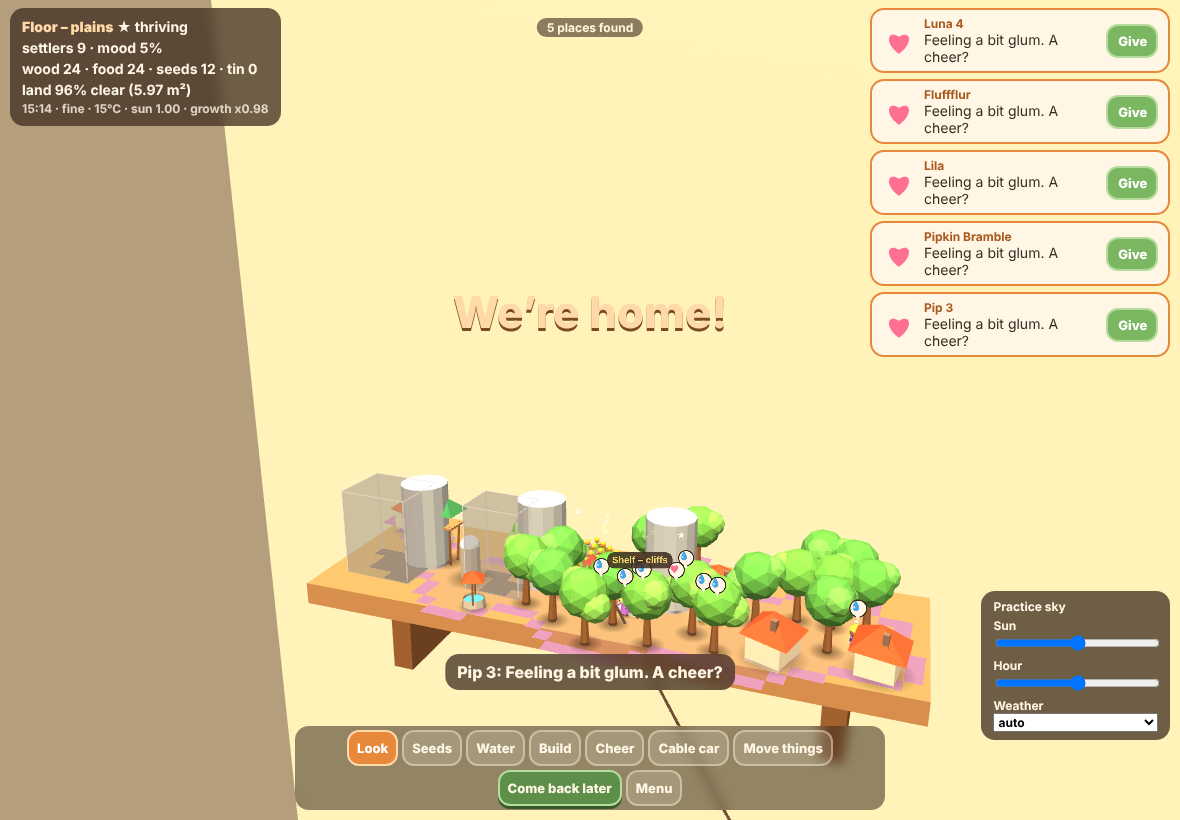
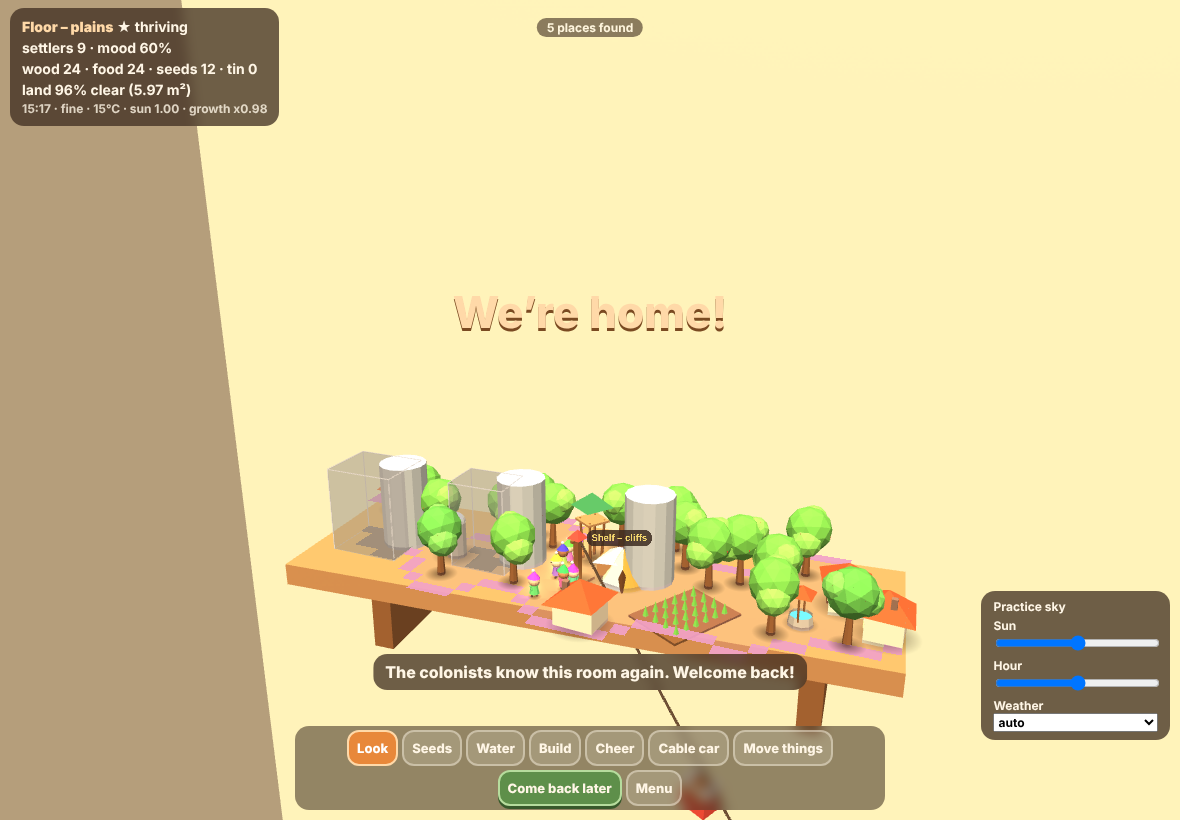
Base Camp build 5: coming home feels good (colony content after time away, no wall of glum requests); at most two requests on screen
Claude-Session: https://claude.ai/code/session_0171oc5wTsPoimaja7RRfUcs

diff --git a/games/base-camp/index.html b/games/base-camp/index.html
@@ -123,7 +123,7 @@ body.auto #bar button{min-height:36px;font-size:13px;padding:2px 8px}
 'use strict';
 // Base Camp: a living colony on the real surfaces of your room. One file. Sections: basics, almanac (data), environment
 // (light, clock, weather), scan (zones), models, colony simulation, input and UI, AR mode, practice room, main loop.
-const BUILD = 'build 4';
+const BUILD = 'build 5';
 const $ = (id) => document.getElementById(id);
 const clamp = (v, a, b) => Math.max(a, Math.min(b, v)), mixLerp = (a, b, t) => a + (b - a) * t;
 const rnd = (a, b) => a + Math.random() * (b - a), pick = (a) => a[Math.floor(Math.random() * a.length)];
@@ -1630,6 +1630,9 @@ function awaySim(secs, startHour) {
   }
   for (const S of G.settlements) { for (const c of S.cols) { c.job = null; c.inside = false; c.cool = 0; c.moving = false; c.working = false; c.mesh.visible = true; } for (const t of S.things) t.workers = 0; S.reqT = 0; S.planT = 4; }
   DIARY.on = false;
+  // Coming home must feel good, never like guilt: after time away the colony is content, not miserable (owner's rule).
+  for (const S of G.settlements) for (const c of S.cols) { c.needs.joy = Math.max(c.needs.joy, 0.6); c.needs.food = Math.max(c.needs.food, 0.45); c.needs.water = Math.max(c.needs.water, 0.45); c.needs.rest = Math.max(c.needs.rest, 0.5); }
+  G.requests = G.requests.filter((q) => q.def.give !== 'cheer');
   const lines = awaySummary(before, snapColony(), secs, nights, capped);
   return { secs, ms: performance.now() - t0, steps, lines, nights };
 }
@@ -2915,11 +2918,13 @@ $('bMapIO').onclick = () => { $('title').hidden = true; ioUi(); $('modal').query
 $('bNew').onclick = () => { if ($('bNew').dataset.sure !== '1') { $('bNew').dataset.sure = '1'; $('bNew').textContent = 'Really forget the colony?'; return; } $('bNew').dataset.sure = ''; $('bNew').textContent = 'Forget my colony'; store.del(SAVE_KEY); store.del(SAVE_KEY + '-bak'); G.previewLines = null; G.previewStamp = ''; updateTitle(); toast('The colony is forgotten. The room map is kept.'); };
 function reqUi() {
   const r = $('reqs'); r.innerHTML = '';
-  for (const q of G.requests) {
+  const MAXR = 2; // at most two requests on screen: the room is the game, not a to-do list
+  for (const q of G.requests.slice(0, MAXR)) {
     const d = document.createElement('div'); d.className = 'req'; d.innerHTML = `<canvas width="34" height="34"></canvas><div><b>${esc(q.who)}</b>${esc(q.def.text)}${q.def.by ? ' <i class="by">by ' + esc(q.def.by) + '</i>' : ''}</div><button>${q.def.give === 'cablecar' || q.def.give === 'expedition' ? 'Yes!' : 'Give'}</button>`;
     const ctx = d.querySelector('canvas').getContext('2d'); ctx.scale(34 / 64, 34 / 64); (ICONS[q.def.icon] || ICONS.bang)(ctx);
     d.querySelector('button').onclick = () => giveRequest(q); r.appendChild(d);
   }
+  if (G.requests.length > MAXR) { const m = document.createElement('div'); m.className = 'req more'; m.textContent = '+' + (G.requests.length - MAXR) + ' more'; m.style.cssText = 'font-size:12px;opacity:.75;justify-content:flex-end;padding:2px 8px'; r.appendChild(m); }
 }
 function envUi() {
   const e = $('env');
@@ -3130,7 +3135,7 @@ function frame(time, xrFrame) {
     for (const z of SCAN.zones.concat(G.zones)) if (z.label) { if (z.t0 === undefined) z.t0 = G.time; const inScan = SCAN.zones.includes(z), mapped = inScan && z.mz > 0 && zoneById(z.mz), dx = z.cx - eye.x, dy = z.y - eye.y, dz = z.cz - eye.z, L2 = Math.hypot(dx, dy, dz) || 1, look = (dx * fw.x + dy * fw.y + dz * fw.z) / L2 > 0.985;
       z.label.visible = !mapped && !z.settled && G.phase !== 'title' && (G.time - z.t0 < 3.5 || look); if (z.label.visible) { z.label.position.y = z.y + 0.05; const k = clamp(L2 / 1.2, 0.5, 2.5); z.label.scale.set(0.16 * k, 0.03 * k, 1); } } }
   else for (const z of SCAN.zones.concat(G.zones)) if (z.label && z.label.visible) { z.label.position.y = z.y + 0.07 + Math.sin(G.time * 2 + z.id) * 0.004; const dd = (AR.on ? tmpV.setFromMatrixPosition(AR.viewM) : camera.position).distanceTo(z.label.position), k = clamp(dd / 1.0, 0.7, 4); z.label.scale.set(0.28 * k, 0.052 * k, 1); }
-  uiT += dt; if (uiT > 0.4) { uiT = 0; cardUi(); if (G.sel && G.selT > 0) { G.selT -= 0.4; selCard(G.sel); } else if (G.sel) { G.sel = null; selCard(null); } if (frameN % 3 === 0 && G.requests.length !== $('reqs').children.length) reqUi(); }
+  uiT += dt; if (uiT > 0.4) { uiT = 0; cardUi(); if (G.sel && G.selT > 0) { G.selT -= 0.4; selCard(G.sel); } else if (G.sel) { G.sel = null; selCard(null); } if (frameN % 3 === 0 && Math.min(G.requests.length, 2) + (G.requests.length > 2 ? 1 : 0) !== $('reqs').children.length) reqUi(); }
   renderer.render(scene, camera);
 }
 addEventListener('visibilitychange', () => { if (document.hidden) persist(true); }); addEventListener('pagehide', () => persist(true));
